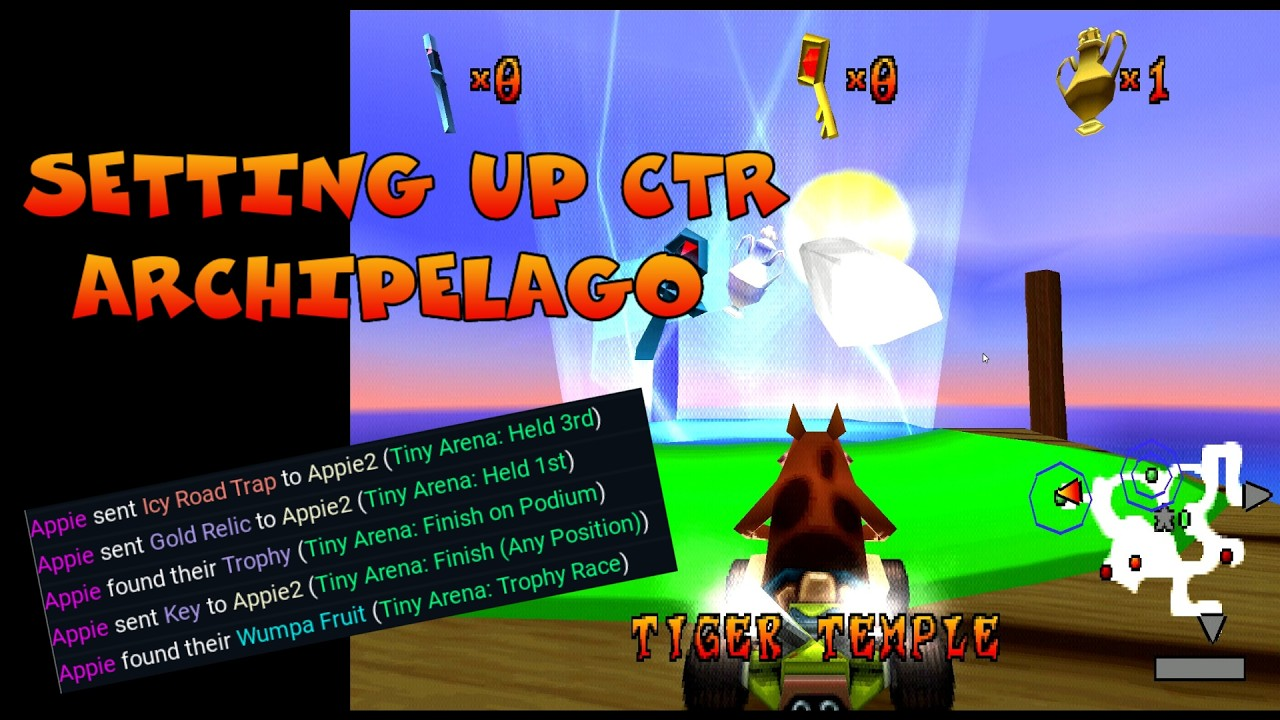
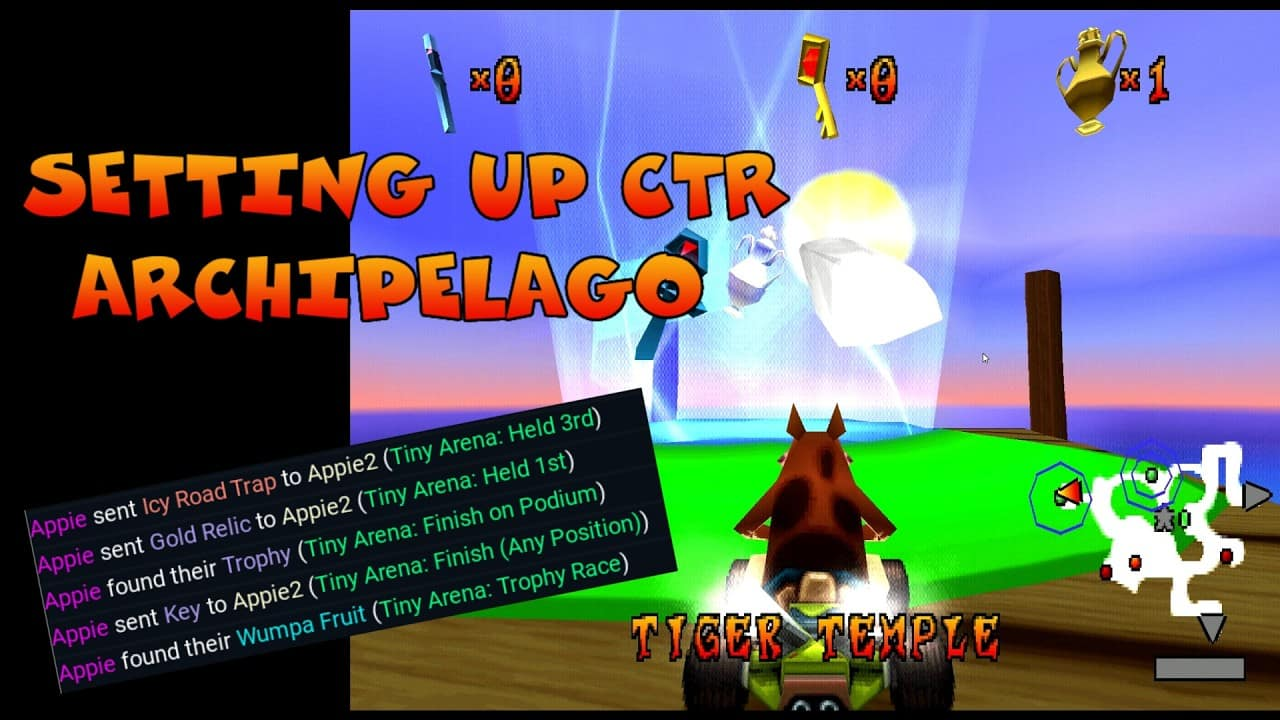
perf(ctr): optimize public image assets

Changed region(s): [[0.8125, 0.6417, 0.9375, 0.7028], [0.875, 0.0917, 0.9062, 0.1222], [0.8125, 0.7333, 0.8438, 0.7639]]

diff --git a/ap-web/templates/ctr/landing.html b/ap-web/templates/ctr/landing.html
@@ -112,7 +112,10 @@
       progression between them.
     </p>
     <figure class="shot">
-      <img src="/img/ctr/checks-feed.jpg" alt="Racing through Dingo Canyon while the on-screen feed lists items just found: a wumpa fruit, a CTR letter, a character, and a relic" loading="lazy" width="1554" height="904" />
+      <picture>
+        <source srcset="/img/ctr/checks-feed.webp" type="image/webp" />
+        <img src="/img/ctr/checks-feed.jpg" alt="Racing through Dingo Canyon while the on-screen feed lists items just found: a wumpa fruit, a CTR letter, a character, and a relic" loading="lazy" width="1554" height="904" />
+      </picture>
       <figcaption>The in-game feed listing checks and items as they come in mid-race.</figcaption>
     </figure>
   </section>
@@ -128,11 +131,17 @@
     </p>
     <div class="shot-grid">
       <figure class="shot">
-        <img src="/img/ctr/warp-pad-requirements.jpg" alt="The Slide Coliseum warp pad with item icons hovering above it, showing what this seed asks for" loading="lazy" width="800" height="600" />
+        <picture>
+          <source srcset="/img/ctr/warp-pad-requirements.webp" type="image/webp" />
+          <img src="/img/ctr/warp-pad-requirements.jpg" alt="The Slide Coliseum warp pad with item icons hovering above it, showing what this seed asks for" loading="lazy" width="800" height="600" />
+        </picture>
         <figcaption>A warp pad showing what this seed asks for before it opens.</figcaption>
       </figure>
       <figure class="shot">
-        <img src="/img/ctr/warp-pad-hub.jpg" alt="The Crash Cove warp pad in the Adventure hub, with the Archipelago symbol hovering above it" loading="lazy" width="1554" height="904" />
+        <picture>
+          <source srcset="/img/ctr/warp-pad-hub.webp" type="image/webp" />
+          <img src="/img/ctr/warp-pad-hub.jpg" alt="The Crash Cove warp pad in the Adventure hub, with the Archipelago symbol hovering above it" loading="lazy" width="1554" height="904" />
+        </picture>
         <figcaption>The Crash Cove pad carrying the Archipelago marker.</figcaption>
       </figure>
     </div>
@@ -149,7 +158,7 @@
       see <a href="/guides/crash-team-racing-pc">Play Crash Team Racing on PC</a>.
     </p>
     <figure class="shot">
-      <video controls muted loop playsinline preload="none" poster="/img/ctr/custom-resolutions-poster.jpg" width="1554" height="904">
+      <video controls muted loop playsinline preload="none" poster="/img/ctr/custom-resolutions-poster.webp" width="1554" height="904">
         <source src="/img/ctr/custom-resolutions.mp4" type="video/mp4" />
         Your browser does not support the video tag.
       </video>
@@ -175,7 +184,7 @@
       <button type="button" class="video-facade"
               data-embed-src="https://www.youtube-nocookie.com/embed/9x63P6JP93E?autoplay=1"
               data-embed-title="How to play the Crash Team Racing Archipelago | For players"
-              style="background-image:url('/img/ctr/tutorial-thumb.jpg')"
+              style="background-image:image-set(url('/img/ctr/tutorial-thumb.webp') type('image/webp'), url('/img/ctr/tutorial-thumb.jpg') type('image/jpeg'))"
               aria-label="Play video: How to play the Crash Team Racing Archipelago">
         <span class="play-icon" aria-hidden="true"></span>
         <span class="facade-note">Loads a video from YouTube on click</span>

diff --git a/ap-web/frontend/tests/e2e/seo-surfaces.spec.ts b/ap-web/frontend/tests/e2e/seo-surfaces.spec.ts
@@ -24,7 +24,7 @@ for (const contract of contracts) {
     const response = await request.get(contract.path);
     expect(response.ok()).toBeTruthy();
     const html = await response.text();
-    expect(html).toContain(`<title>${contract.title}</title>`);
+    expect(html).toContain(`<title>${contract.title.replaceAll("&", "&amp;")}</title>`);
     expect(html).toContain(`name="description" content="${contract.description}"`);
     expect(html).toContain(`rel="canonical" href="${contract.canonical}"`);
     expect(html).toContain(`<h1>${contract.heading}</h1>`);
@@ -45,4 +45,26 @@ test("APWorlds appears exactly once in the sitemap", async ({ request }) => {
   expect(response.ok()).toBeTruthy();
   const xml = await response.text();
   expect(xml.match(/<loc>https:\/\/ap-pie\.com\/apworlds<\/loc>/g)).toHaveLength(1);
+});
+
+test("CTR screenshots prefer WebP and every fallback stays below 100 KB", async ({ page, request }) => {
+  const names = [
+    "checks-feed",
+    "warp-pad-hub",
+    "tutorial-thumb",
+    "warp-pad-requirements",
+    "custom-resolutions-poster",
+    "og-ctr",
+  ];
+  for (const name of names) {
+    for (const extension of ["webp", "jpg"]) {
+      const response = await request.get(`/img/ctr/${name}.${extension}`);
+      expect(response.ok()).toBeTruthy();
+      expect((await response.body()).byteLength).toBeLessThan(100_000);
+    }
+  }
+
+  await page.goto("/ctr");
+  await expect(page.locator('picture source[type="image/webp"]')).toHaveCount(3);
+  await expect(page.locator('video[poster$="custom-resolutions-poster.webp"]')).toHaveCount(1);
 });

diff --git a/ap-web/api/guides.py b/ap-web/api/guides.py
@@ -209,7 +209,7 @@ GUIDES: list[dict[str, str]] = [
         # for guides with no video yet.
         "video_url": "https://www.youtube-nocookie.com/embed/9x63P6JP93E",
         "video_title": "How to play the Crash Team Racing Archipelago | For players",
-        "video_thumb": "/img/ctr/tutorial-thumb.jpg",
+        "video_thumb": "/img/ctr/tutorial-thumb.webp",
     },
 ]
 
